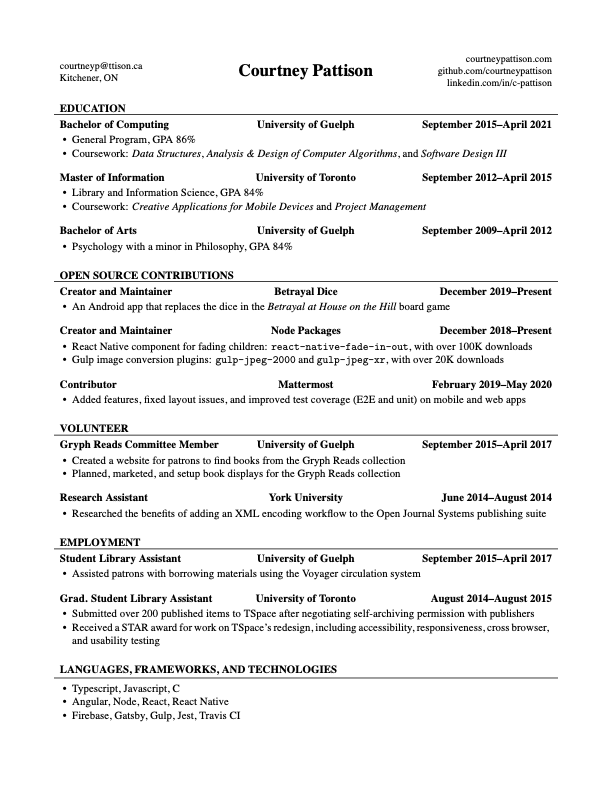
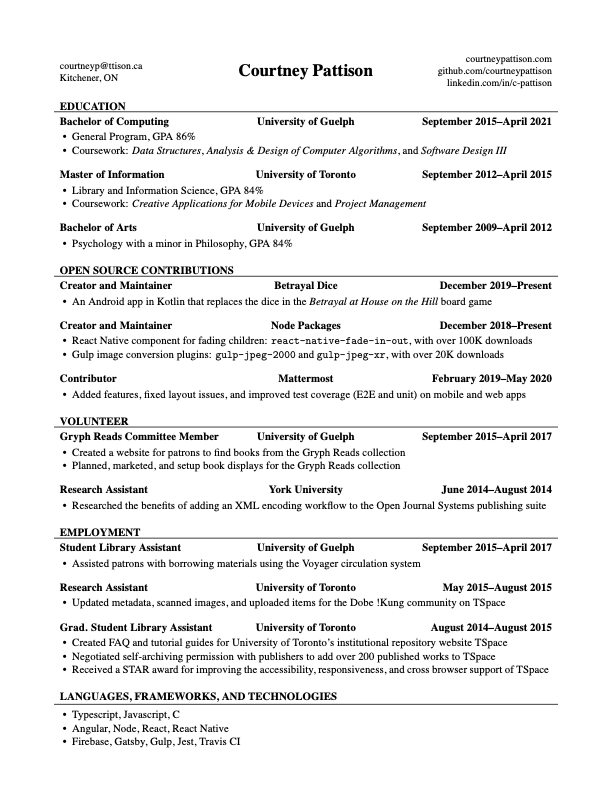
Reworded university of toronto experience

Changed region(s): [[0.0931, 0.1212, 0.9003, 0.9394]]

diff --git a/courtneypattison_resume.tex b/courtneypattison_resume.tex
@@ -26,6 +26,8 @@
 % For mathematical symbols
 \usepackage{amsmath}
 
+\def\beforesectionheaderspace{3pt}
+
 % Set applicant's personal data for header
 \name{Courtney Pattison}
 \address{courtneyp@ttison.ca \linebreak Kitchener, ON}
@@ -62,7 +64,7 @@
 	\begin{cvsection}{Open Source Contributions}
 		\begin{cvsubsection}{Creator and Maintainer}{Betrayal Dice}{December 2019--Present}
 			\begin{itemize}
-				\item An Android app that replaces the dice in the \textit{Betrayal at House on the Hill} board game
+				\item An Android app in Kotlin that replaces the dice in the \textit{Betrayal at House on the Hill} board game
 			\end{itemize}
 		\end{cvsubsection}
 		
@@ -116,17 +118,17 @@
 			\end{itemize}
 		\end{cvsubsection}
 		
-%		\begin{cvsubsection}{Research Assistant}{University of Toronto}{May 2015--August 2015}	
-%			\begin{itemize}
-%				\item Updated metadata, scanned images, and uploaded items for the Dobe !Kung community on TSpace
-%			\end{itemize}
-%		\end{cvsubsection}
+		\begin{cvsubsection}{Research Assistant}{University of Toronto}{May 2015--August 2015}	
+			\begin{itemize}
+				\item Updated metadata, scanned images, and uploaded items for the Dobe !Kung community on TSpace
+			\end{itemize}
+		\end{cvsubsection}
 		
 		\begin{cvsubsection}{Grad. Student Library Assistant}{University of Toronto}{August 2014--August 2015}		
 			\begin{itemize}
-%				\item Created guides that promoted TSpace, answered FAQs, and taught people how to use TSpace
-                \item Submitted over 200 published items to TSpace after negotiating self-archiving permission with publishers
-                \item Received a STAR award for work on TSpace's redesign, including accessibility, responsiveness, cross browser, and usability testing
+	    			\item Created FAQ and tutorial guides for University of Toronto's institutional repository website TSpace
+               			\item Negotiated self-archiving permission with publishers to add over 200 published works to TSpace
+               			\item Received a STAR award for improving the accessibility, responsiveness, and cross browser support of TSpace 
 			\end{itemize}
 		\end{cvsubsection}
 		
